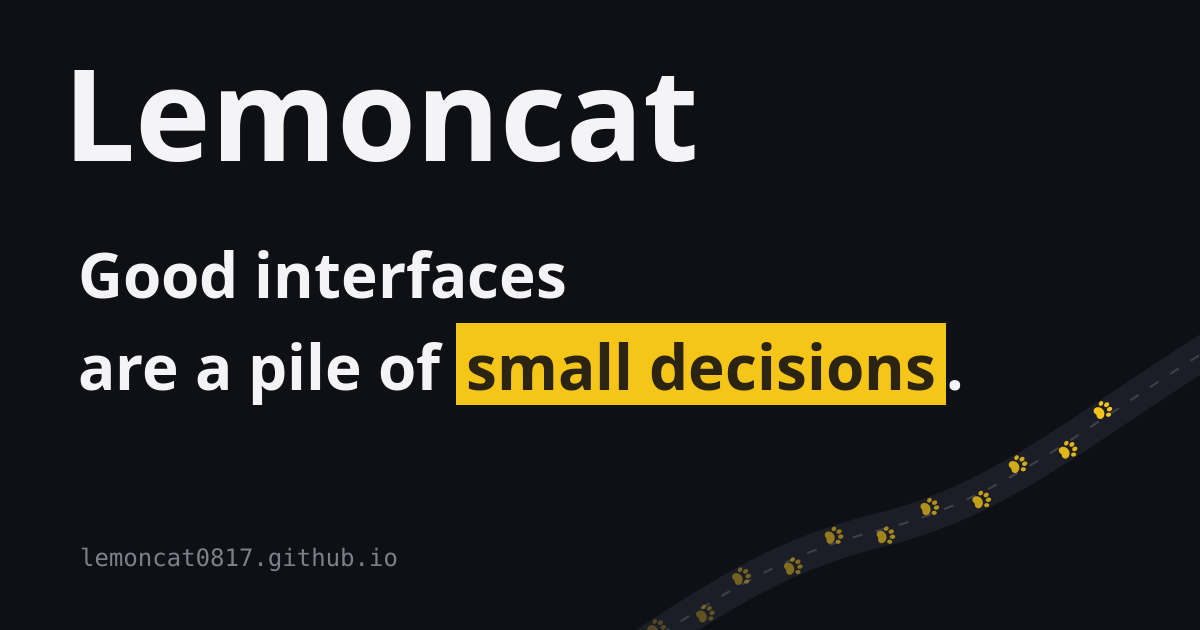
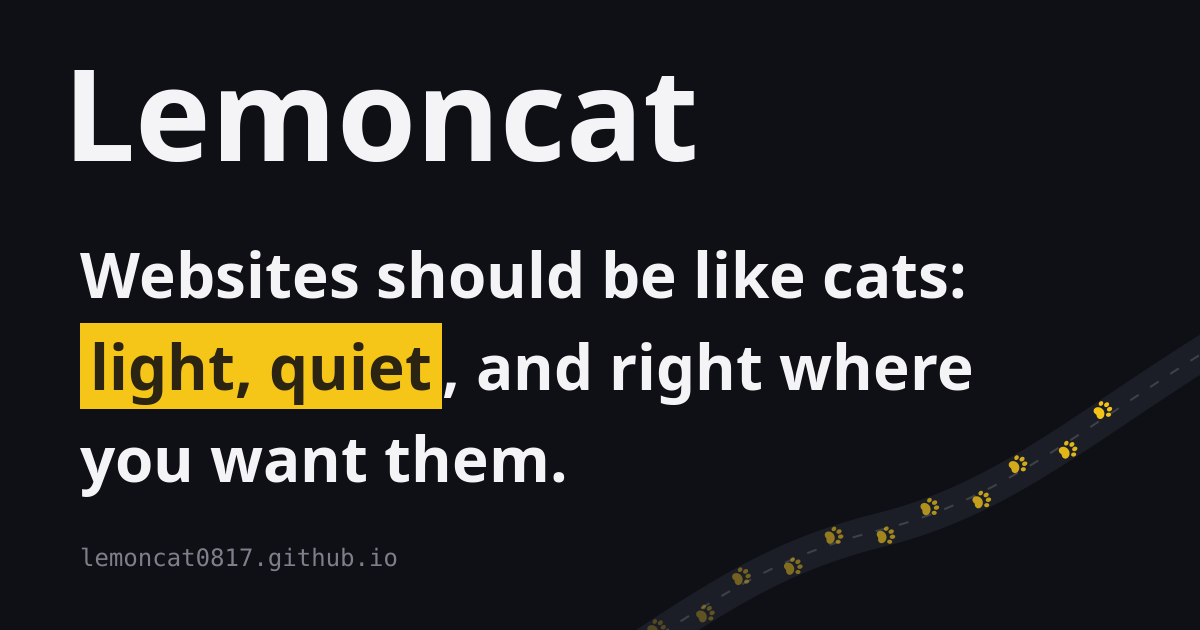
feat: Hero 標題改為「網頁該像貓」並加入看游標的檸檬貓
標題與分享圖改用新文案；右側新增檸檬造型的貓，眼睛跟著游標轉，只在 xl 以上顯示，避免文字欄過窄讓打字列版面跳動。

Changed region(s): [[0.0617, 0.5127, 0.8325, 0.6635], [0.0617, 0.3921, 0.8017, 0.4825], [0.0617, 0.6937, 0.4625, 0.7841]]

diff --git a/src/i18n/ui.ts b/src/i18n/ui.ts
@@ -21,9 +21,9 @@ export const ui = {
     'nav.menu': '選單',
 
     'hero.role': '網頁工程師',
-    'hero.headline.1': '好用的網頁，',
-    'hero.headline.2': '是一個一個決定堆出來的。',
-    'hero.mark': '一個一個決定',
+    'hero.headline.1': '網頁該像貓，',
+    'hero.headline.2': '輕巧、安靜、剛好在你要的地方。',
+    'hero.mark': '輕巧、安靜、剛好',
     'hero.recent': '最近做的：',
     'hero.viewWork': '看看我的作品',
     'hero.scrollHint': '向下捲動',
@@ -74,9 +74,9 @@ export const ui = {
     'nav.menu': 'Menu',
 
     'hero.role': 'Web Engineer',
-    'hero.headline.1': 'Good interfaces',
-    'hero.headline.2': 'are a pile of small decisions.',
-    'hero.mark': 'small decisions',
+    'hero.headline.1': 'Websites should be like cats:',
+    'hero.headline.2': 'light, quiet, and right where you want them.',
+    'hero.mark': 'light, quiet',
     'hero.recent': 'Recently: ',
     'hero.viewWork': 'See my work',
     'hero.scrollHint': 'Scroll',

diff --git a/AGENTS.md b/AGENTS.md
@@ -52,6 +52,7 @@ Node 版本需 `>= 22.12`（Astro 7 要求）。
 - 走過的腳印可以點，點了會冒出一則冷知識。腳印會隨版面重建，所以點擊監聽掛在 `[data-route]` 容器上，不要綁在個別腳印。彩蛋不寫說明文字：最前端的腳印（`data-lead`）在訪客點過之前會一直泛出波紋，第一次走到路線時再冒一次「喵？點我看看」；兩者分別用 localStorage 的 `lemoncat:paw-hinted`、`lemoncat:paw-found` 記住，只提示一次。
 - 全站游標是貓掌（`global.css` 的 base 層），一般、指到連結、按下（`:active`）三種 PNG 由 `pnpm og` 產生在 `public/cursors/`；熱點座標（一般 `10 8`、按下 `11 10`）寫在 CSS 裡，改圖時兩邊要一起對。作品封面刻意保留 `cursor-zoom-in`，提示可以放大看。
 - 左鍵或觸控點擊會在點的位置留一個淡出的貓掌（`BaseLayout.astro` 的 `pointerdown`，樣式 `.click-paw`）；右鍵刻意不處理，減少動態時關閉。
+- Hero 右側的貓（`HeroCat.astro`）眼睛會跟著游標轉，只在 `xl` 以上顯示；再窄的話文字欄會窄到打字列預留的行數不夠，打字時版面會跳。腳本裡的 `matchMedia('(min-width: 80rem)')` 要跟 `xl` 斷點一致。減少動態時仍會跟著游標，但沒有緩動也不會眨眼。
 - 404 頁是貓咪版（腳印走到一半就斷掉），貓掌圖形統一用 `PawIcon.astro`。
 
 **彈窗與游標效果慣例**：
